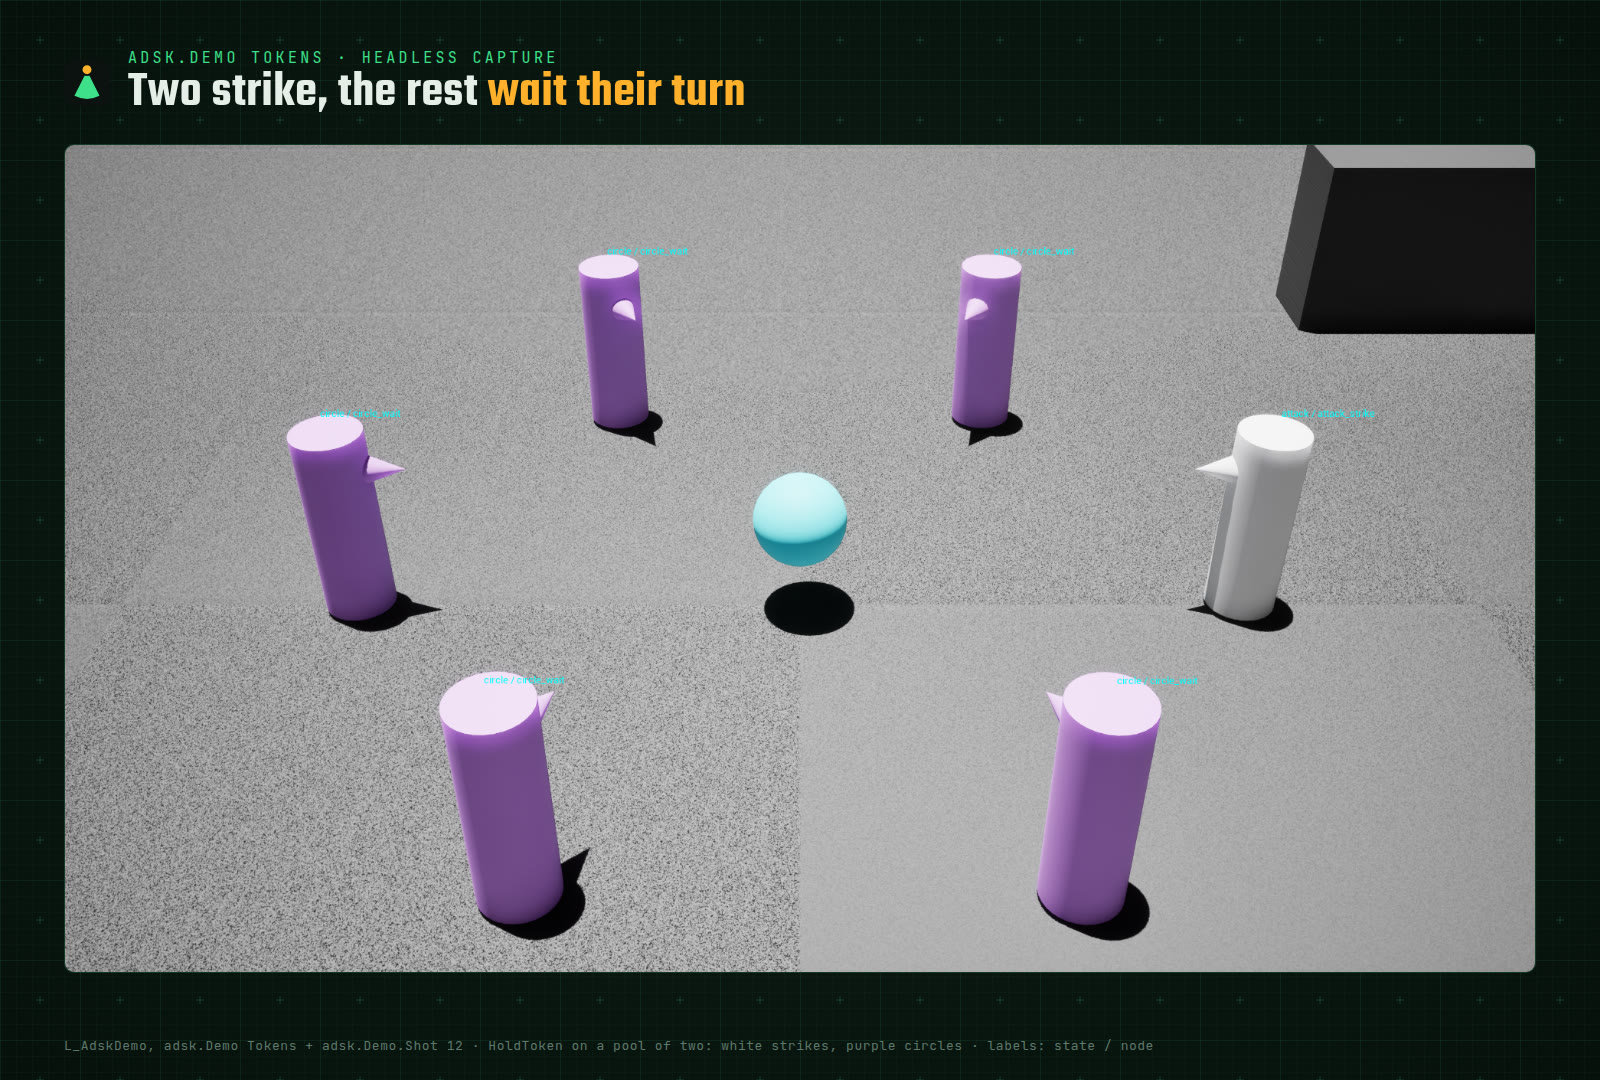
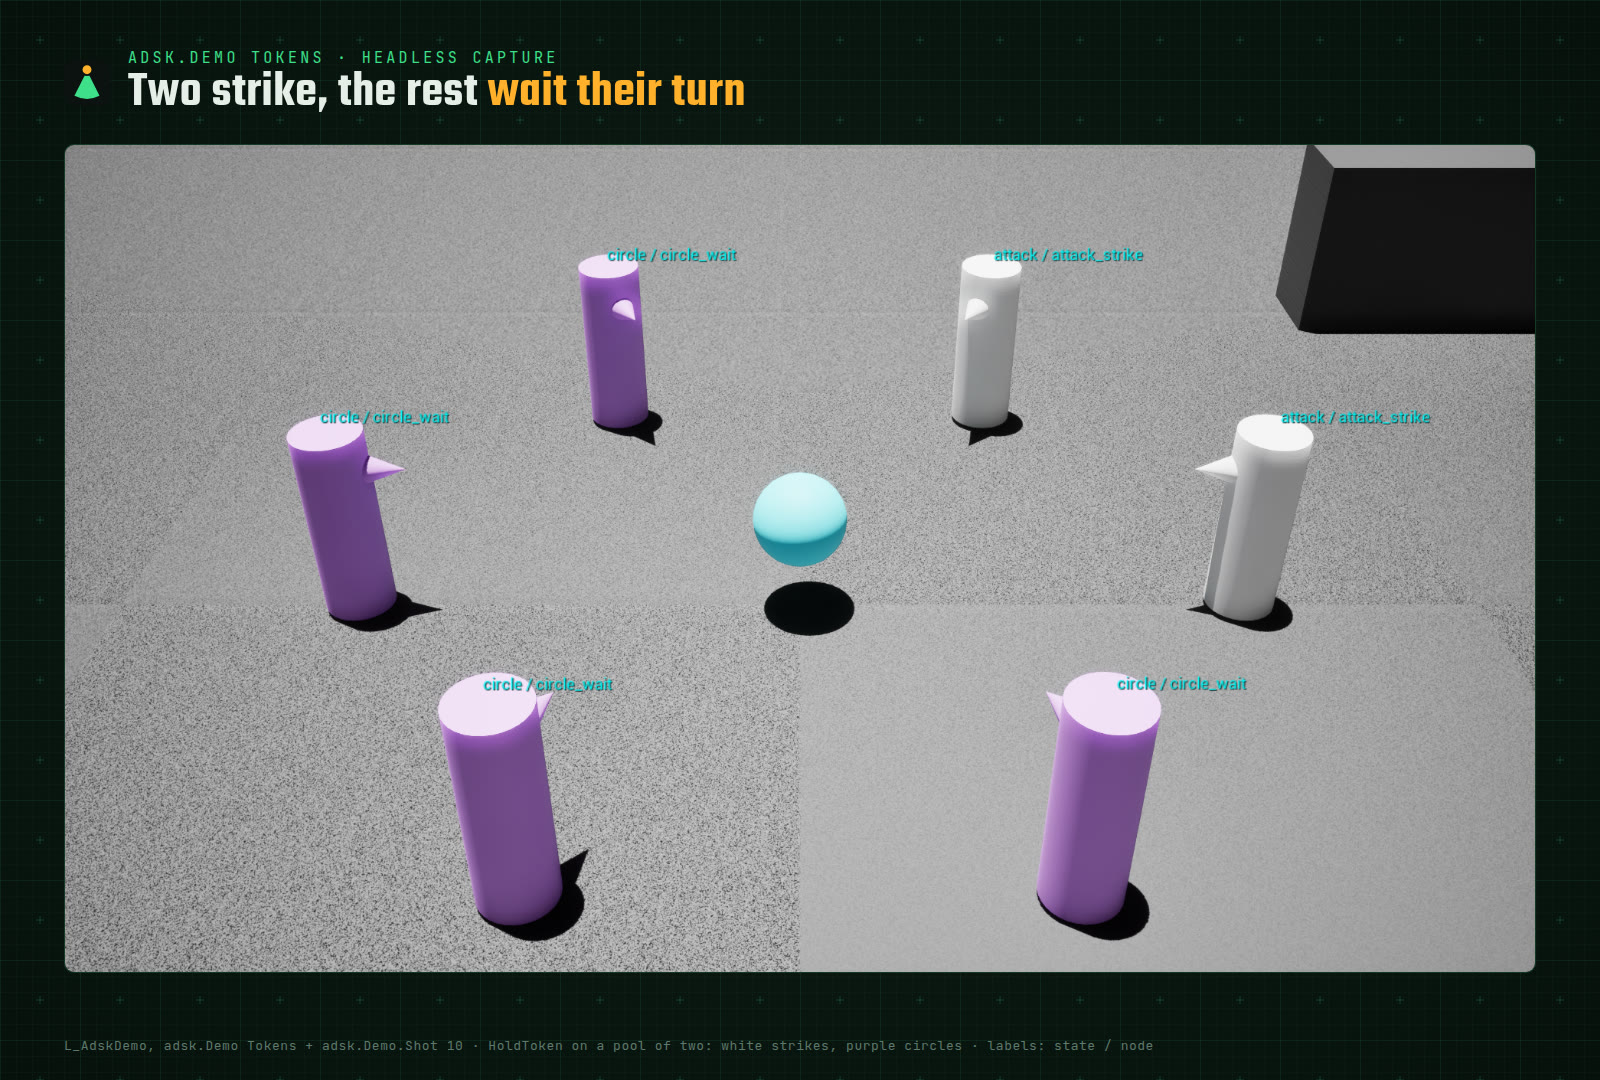
fixes

diff --git a/docs/dev/brand/cards/statechart.py b/docs/dev/brand/cards/statechart.py
@@ -74,6 +74,9 @@ def diagram(W, H, cx, cy, node_w, node_h, inner=None, numbers=True, label_size=1
     def badges(x, y, items):
         out = ""
         n = len(items)
+        if numbers and n > 1:
+            w = (n - 1) * 34 + 36
+            out += f'<rect x="{x - w / 2:.1f}" y="{y - 18:.1f}" width="{w:.1f}" height="36" rx="18" fill="#06100b"/>'
         for k, (i, l) in enumerate(items):
             bx = x + (k - (n - 1) / 2) * 34
             c = KCOL[kind(l)]
@@ -117,12 +120,12 @@ def v_numbered():
     legend = "".join(f'<span style="display:inline-flex;align-items:center;gap:8px;margin-right:22px">'
                      f'<i style="width:14px;height:14px;border-radius:50%;background:{c}"></i>{t}</span>'
                      for c, t in ((GREEN, "tree.success"), (AMBER, "TargetChanged"), (RED, "tree.failure")))
-    extra = ".cols{display:grid;grid-template-columns:1.05fr 1fr;gap:22px;height:640px} .cols .panel{height:100%}"
+    extra = ".cols{display:grid;grid-template-columns:1.05fr 1fr;gap:22px;height:560px} .cols .panel{height:100%}"
     body = (b.head("adsk_graph · the file is the source", "Every <em>line</em> is an arrow") +
             f'<div class="cols">{panel("Examples/hunt_actor.xml", f"<pre style=\"font-size:15px;line-height:1.62\">{xml_lines(True)}</pre>")}'
-            f'{panel("the same ten transitions", f"<div style=\"height:calc(100% - 100px);padding:24px 20px 0\">{svg}</div>"
+            f'{panel("the same ten transitions", f"<div style=\"height:calc(100% - 96px);padding:18px 20px 0\">{svg}</div>"
                      f"<div style=\"padding:6px 24px;font:400 15px JetBrains Mono;color:{DIM}\">{legend}</div>")}</div>'
             f'<div class="foot">{FOOT} Numbers follow the file order of the On lines.</div>')
-    b.shoot("statechart", b.page(body, 1600, 860, extra), 1600, 860)
+    b.shoot("statechart", b.page(body, 1600, 780, extra), 1600, 780)
 
 

diff --git a/Source/AdamskAIDebug/Private/ADSKDebugSubsystem.cpp b/Source/AdamskAIDebug/Private/ADSKDebugSubsystem.cpp
@@ -10,6 +10,7 @@
 namespace ADSKDebugSubsystemPrivate
 {
 	TAutoConsoleVariable<bool> LabelsEnabled(TEXT("adsk.Labels"), false, TEXT("Show AdamskAI execution labels."));
+	TAutoConsoleVariable<float> LabelsScale(TEXT("adsk.Labels.Scale"), 1.f, TEXT("Font scale of the AdamskAI labels, 0.5 to 4."));
 }
 
 bool UADSKDebugSubsystem::DoesSupportWorldType(EWorldType::Type WorldType) const
@@ -23,13 +24,14 @@ void UADSKDebugSubsystem::Tick(float)
 	if (!World || !ADSKDebugSubsystemPrivate::LabelsEnabled.GetValueOnGameThread()) return;
 	// Labels need no slots, events or records.
 	const FADSKDebugSnapshot Snapshot = FADSKDebugSnapshot::Collect(World, EADSKDebugDetail::Labels);
+	const float Scale = FMath::Clamp(ADSKDebugSubsystemPrivate::LabelsScale.GetValueOnGameThread(), 0.5f, 4.f);
 	for (const FADSKBrainDebugRow& Row : Snapshot.Rows)
 	{
 		if (!Row.bHasLabelLocation) continue;
 		const FString State = Row.ActiveStatePath.IsEmpty() ? TEXT("stopped") : Row.ActiveStatePath.Last();
 		FString Node = Row.ActiveNodeId.IsNone() ? TEXT("none") : Row.ActiveNodeId.ToString();
 		for (const FName Background : Row.BackgroundNodeIds) { Node += TEXT(" + ") + Background.ToString(); }
-		DrawDebugString(World, Row.LabelLocation, State + TEXT(" / ") + Node, nullptr, FColor::Cyan, 0.0f, false);
+		DrawDebugString(World, Row.LabelLocation, State + TEXT(" / ") + Node, nullptr, FColor::Cyan, 0.0f, true, Scale);
 	}
 }
 

diff --git a/docs/dev/brand/cards/cards.py b/docs/dev/brand/cards/cards.py
@@ -162,7 +162,7 @@ def card_bench():
 def card_demo(shot):
     body = (head("adsk.Demo Tokens · headless capture", "Two strike, the rest <em>wait their turn</em>") +
             f'<div class="panel"><img src="file://{shot}" style="display:block;width:100%"></div>'
-            f'<div class="foot">L_AdskDemo, adsk.Demo Tokens + adsk.Demo.Shot 12 · HoldToken on a pool of two: white strikes, purple circles · labels: state / node</div>')
+            f'<div class="foot">L_AdskDemo, adsk.Demo Tokens + adsk.Demo.Shot 10 · HoldToken on a pool of two: white strikes, purple circles · labels: state / node</div>')
     shoot("demo-tokens", page(body, 1600, 1080), 1600, 1080, jpeg=True)
 
 

diff --git a/docs/dev/brand/README.md b/docs/dev/brand/README.md
@@ -31,7 +31,7 @@ from real tool output, in the same style:
 | `docs/images/validate.png` | `adsk_validate.sh --paths` on [cards/hunt_actor_typos.xml](cards/hunt_actor_typos.xml) (`Wiat`, `far`, `strik`), output typed into `cards.py` | README, *Quick start* |
 | `docs/images/simulate.png` | [cards/simulate.txt](cards/simulate.txt) (`adsk_simulate.sh Fixtures/scenarios/hunt_actor.json`) | [testing.md](../testing.md#simulation) |
 | `docs/images/bench.png` | the README's *Measured* table, typed into `cards.py` | README, *Measured* |
-| `docs/images/demo-tokens.jpg` | a screenshot from `adsk.Demo Tokens, adsk.Demo.Camera 0 -1000 750 -35 90 55, adsk.Demo.Shot 12 tokens clean quit` ([demo.md](../../demo.md#screenshots)) | [demo.md](../../demo.md) |
+| `docs/images/demo-tokens.jpg` | a screenshot from `adsk.Demo Tokens, adsk.Labels.Scale 1.6, adsk.Demo.Camera 0 -1000 750 -35 90 55, adsk.Demo.Shot 10 tokens clean quit` ([demo.md](../../demo.md#screenshots)) | README, *What a behavior looks like*; [demo.md](../../demo.md) |
 
 ```bash
 python3 -I docs/dev/brand/cards/cards.py --demo-shot Saved/Screenshots/<Platform>/AdamskAI/tokens.png

diff --git a/README.md b/README.md
@@ -57,11 +57,13 @@ publishes facts (`Target`); the file decides. An excerpt of [Examples/hunt_actor
 </Tree>
 ```
 
+<p align="center"><img src="docs/images/statechart.png" alt="Every On line of hunt_actor.xml is one numbered arrow between the search, chase and strike states" width="100%"></p>
+
 To see it run, open `Plugins/AdamskAI Content/Demo/Maps/L_AdskDemo` (Content Browser, *Show Plugin Content*), press
 Play and type `adsk.Demo Chase`. Seven scenes cover patrols, interrupts, squad calls, attack tokens, live reload and a
 1000-brain fleet with its cost on screen: [docs/demo.md](docs/demo.md).
 
-<p align="center"><img src="docs/images/statechart.png" alt="Every On line of hunt_actor.xml is one numbered arrow between the search, chase and strike states" width="100%"></p>
+<p align="center"><img src="docs/images/demo-tokens.jpg" alt="The Tokens demo scene: two agents strike, four circle and wait for a token, each labelled state / node" width="100%"></p>
 
 ## Quick start
 

diff --git a/docs/debugging.md b/docs/debugging.md
@@ -14,7 +14,7 @@ issued generation by two. Fresh standalone instances still start at zero. Genera
 the odd issued generations repeat after roughly `2^31` running replacements on one brain. Reload
 requests the source again.
 
-Set `adsk.Labels 1` for one-frame `state / node` world labels over every brain's pawn. The labels collect a light
+Set `adsk.Labels 1` for one-frame `state / node` world labels over every brain's pawn. `adsk.Labels.Scale <0.5–4>` sizes their font (default 1), for screenshots and large screens. The labels collect a light
 snapshot on the game thread only while the variable is on.
 
 ## A project's own panel

diff --git a/docs/demo.md b/docs/demo.md
@@ -4,7 +4,7 @@ A map and console scenes that show what AdamskAI does, with nothing but engine s
 bindings, no UI. Every scene is also a headless test (`AdamskAIWorld.Demo.*`), so it keeps working as the plugin
 changes, and the Fleet scene writes the performance numbers this page quotes.
 
-<p align="center"><img src="images/demo-tokens.jpg" alt="The Tokens scene: one agent strikes, five circle and wait for a token" width="100%"></p>
+<p align="center"><img src="images/demo-tokens.jpg" alt="The Tokens scene: two agents strike, four circle and wait for a token" width="100%"></p>
 
 ## Run it
 

diff --git a/CHANGELOG.md b/CHANGELOG.md
@@ -8,6 +8,7 @@ What changed for someone who uses the plugin, newest first. Every C++ break and 
 ## Unreleased
 
 ### Added
+- `adsk.Labels.Scale`: the font scale of the `adsk.Labels` world labels, 0.5 to 4 ([debugging](docs/debugging.md)).
 - `Tools/adsk_export.sh`: a clean copy of the plugin for a project's `Plugins/`, from a commit and through the same
   filter as BuildPlugin, without building ([setup](docs/setup.md#getting-the-plugin)). The package filter now also leaves
   `docs/images/` out.
